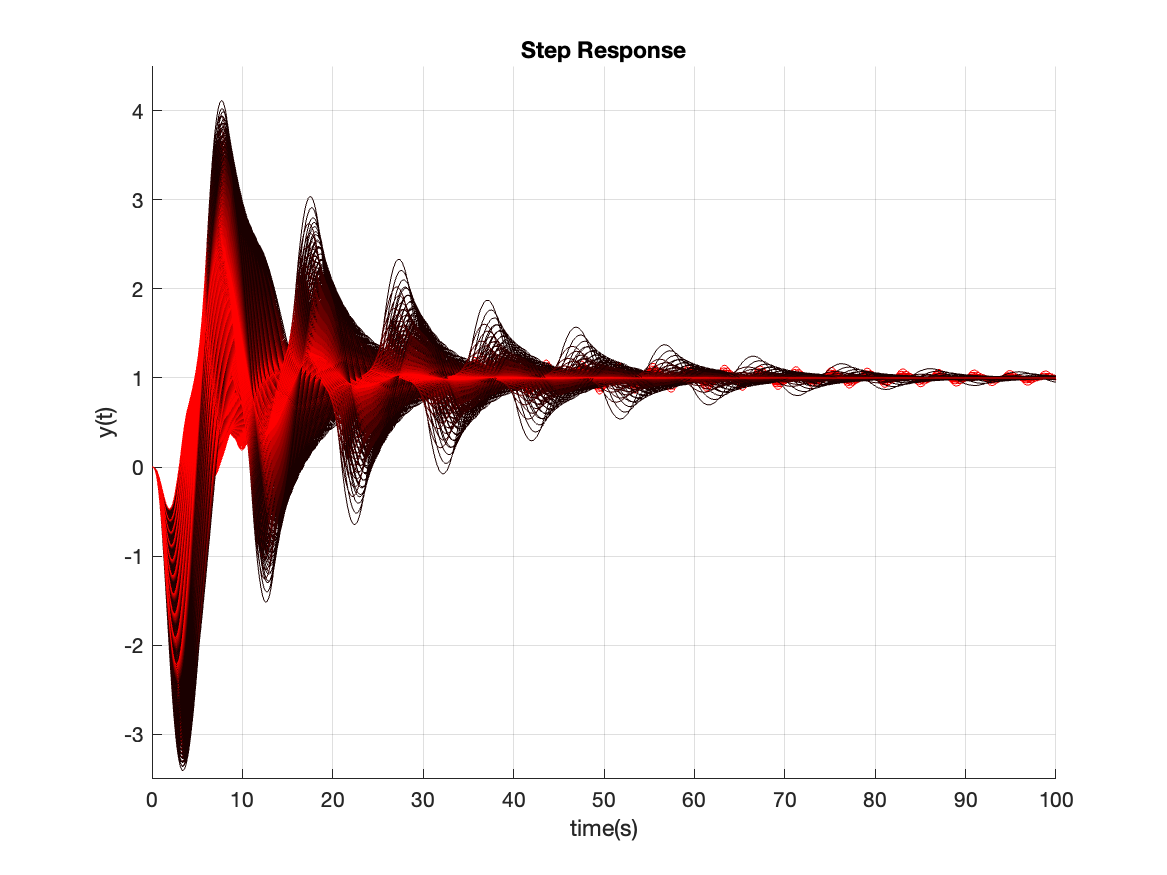
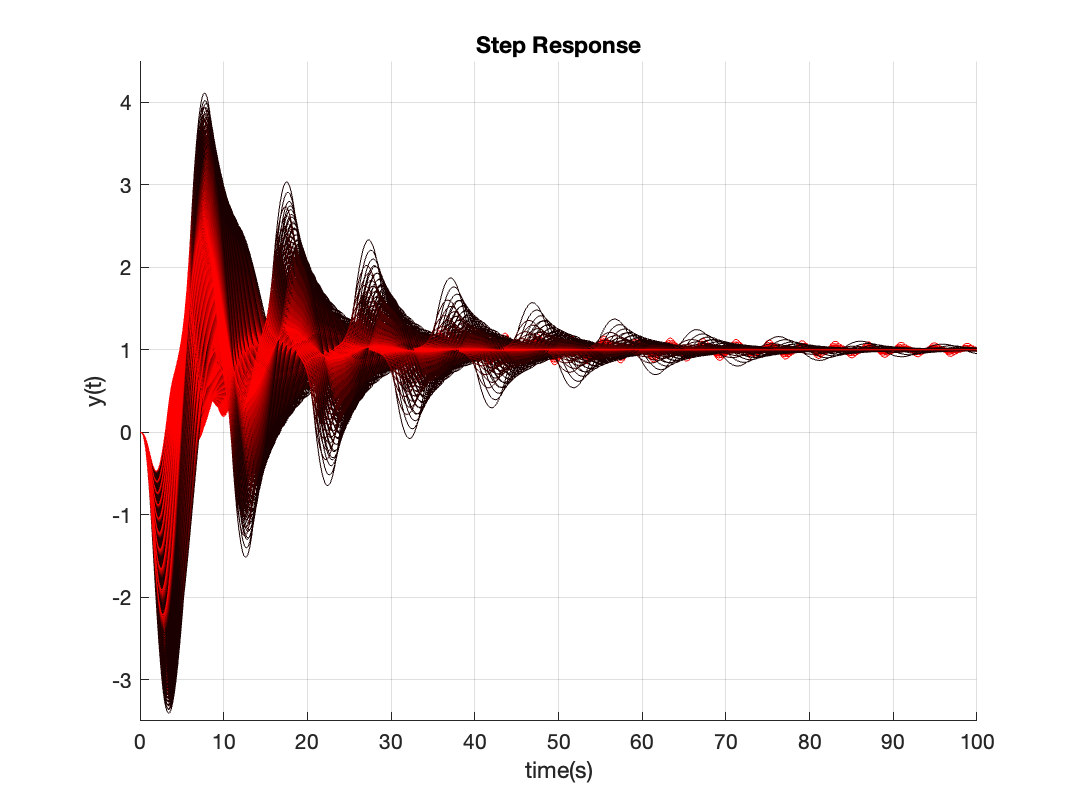
small fix about export graphics

diff --git a/pi/qvalidate2.m b/pi/qvalidate2.m
@@ -6,8 +6,8 @@ p0vec=p0min+(p0max-p0min)*(10*x1+x0)/99;
 p1vec=p1min+(p1max-p1min)*(10*x1+x0)/99;
 
 % center stable
-kpvec=linspace(kstable(1),kstable(2),10);
-kivec=linspace(kstable(3),kstable(4),10);
+kpvec=linspace(kstable(1),kstable(2),2);
+kivec=linspace(kstable(3),kstable(4),2);
 
 figure(1);clf;hold on;grid on;
 xlabel("time(s)");
@@ -36,4 +36,17 @@ end
 xlim(ax1,[0,100]);
 ylim(ax1,[-3.5,4.5]);
 
-print("step_response1.png","-dpng","-r150")
+%% Export
+targetWidth = 7.2;
+fig = gcf;
+origUnits = get(fig, 'Units');
+set(fig, 'Units', 'inches');
+pos = get(fig, 'Position');
+aspectRatio = pos(4)/pos(3); % height / width
+set(fig, 'Position', [pos(1), pos(2), targetWidth, targetWidth*aspectRatio]);
+set(fig, 'Units', origUnits);
+set(fig, 'PaperUnits', 'inches', ...
+         'PaperPosition', [0 0 targetWidth targetWidth*aspectRatio], ...
+         'PaperSize', [targetWidth targetWidth*aspectRatio]);
+
+print(fig,"step_response1.png","-dpng","-r150")

diff --git a/pi/qdesign.m b/pi/qdesign.m
@@ -99,4 +99,18 @@ fill([kunstable(1) kunstable(2) kunstable(2) kunstable(1)],...
 
 legend("p_1(s)","p_2(s)","p_3(s)","p_4(s)","stability","solution region","unstable")
 
-print("stability.png","-dpng","-r150")
+
+%% Export
+targetWidth = 7.2;
+fig = gcf;
+origUnits = get(fig, 'Units');
+set(fig, 'Units', 'inches');
+pos = get(fig, 'Position');
+aspectRatio = pos(4)/pos(3); % height / width
+set(fig, 'Position', [pos(1), pos(2), targetWidth, targetWidth*aspectRatio]);
+set(fig, 'Units', origUnits);
+set(fig, 'PaperUnits', 'inches', ...
+         'PaperPosition', [0 0 targetWidth targetWidth*aspectRatio], ...
+         'PaperSize', [targetWidth targetWidth*aspectRatio]);
+
+print(fig,"stability.png","-dpng","-r300")

diff --git a/pi/qvalidate1.m b/pi/qvalidate1.m
@@ -32,4 +32,17 @@ end
 xlim(ax1,[0,40]);
 ylim(ax1,[0,1.1]);
 
-print("center_stable.png","-dpng","-r150")
+%% Export
+targetWidth = 7.2;
+fig = gcf;
+origUnits = get(fig, 'Units');
+set(fig, 'Units', 'inches');
+pos = get(fig, 'Position');
+aspectRatio = pos(4)/pos(3); % height / width
+set(fig, 'Position', [pos(1), pos(2), targetWidth, targetWidth*aspectRatio]);
+set(fig, 'Units', origUnits);
+set(fig, 'PaperUnits', 'inches', ...
+         'PaperPosition', [0 0 targetWidth targetWidth*aspectRatio], ...
+         'PaperSize', [targetWidth targetWidth*aspectRatio]);
+
+print(fig,"center_stable.png","-dpng","-r150")

diff --git a/pi/qdefs.m b/pi/qdefs.m
@@ -1,5 +1,6 @@
-x0=0:9;
-x1=0:9;
+[x0mat,x1mat]=meshgrid(0:2:9,0:2:9);
+x0=x0mat(:)';
+x1=x1mat(:)';
 
 p1max=3.5; %5
 p1min=3; %3
